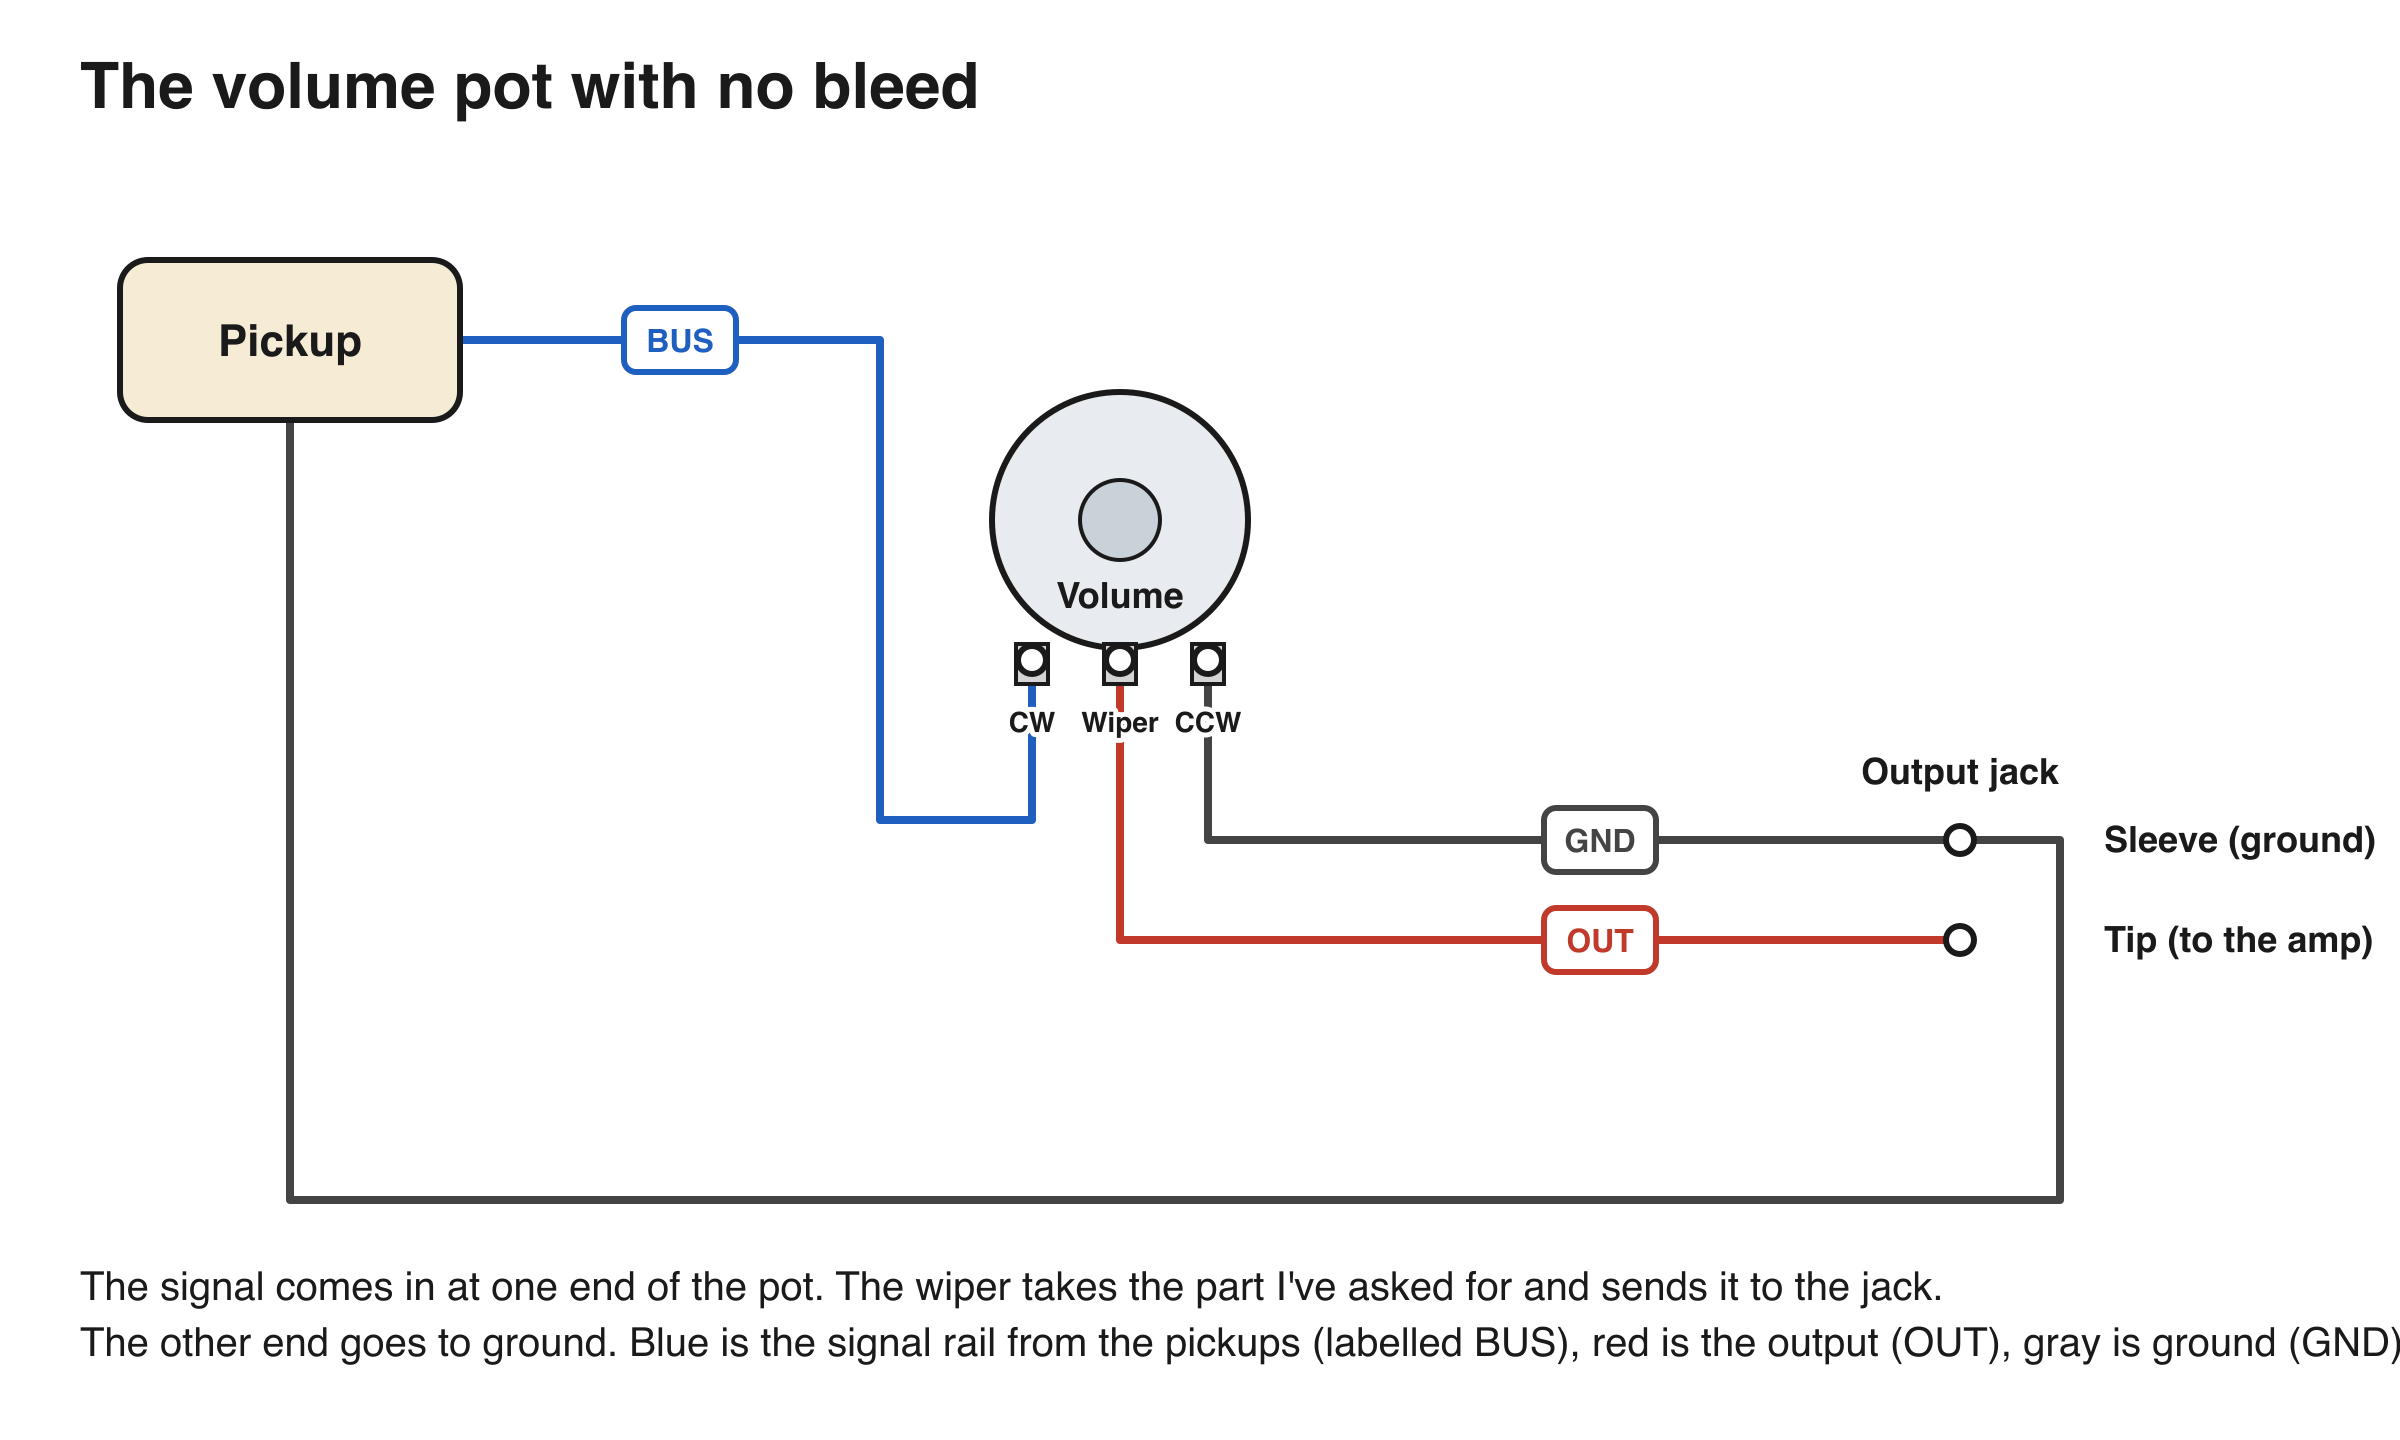
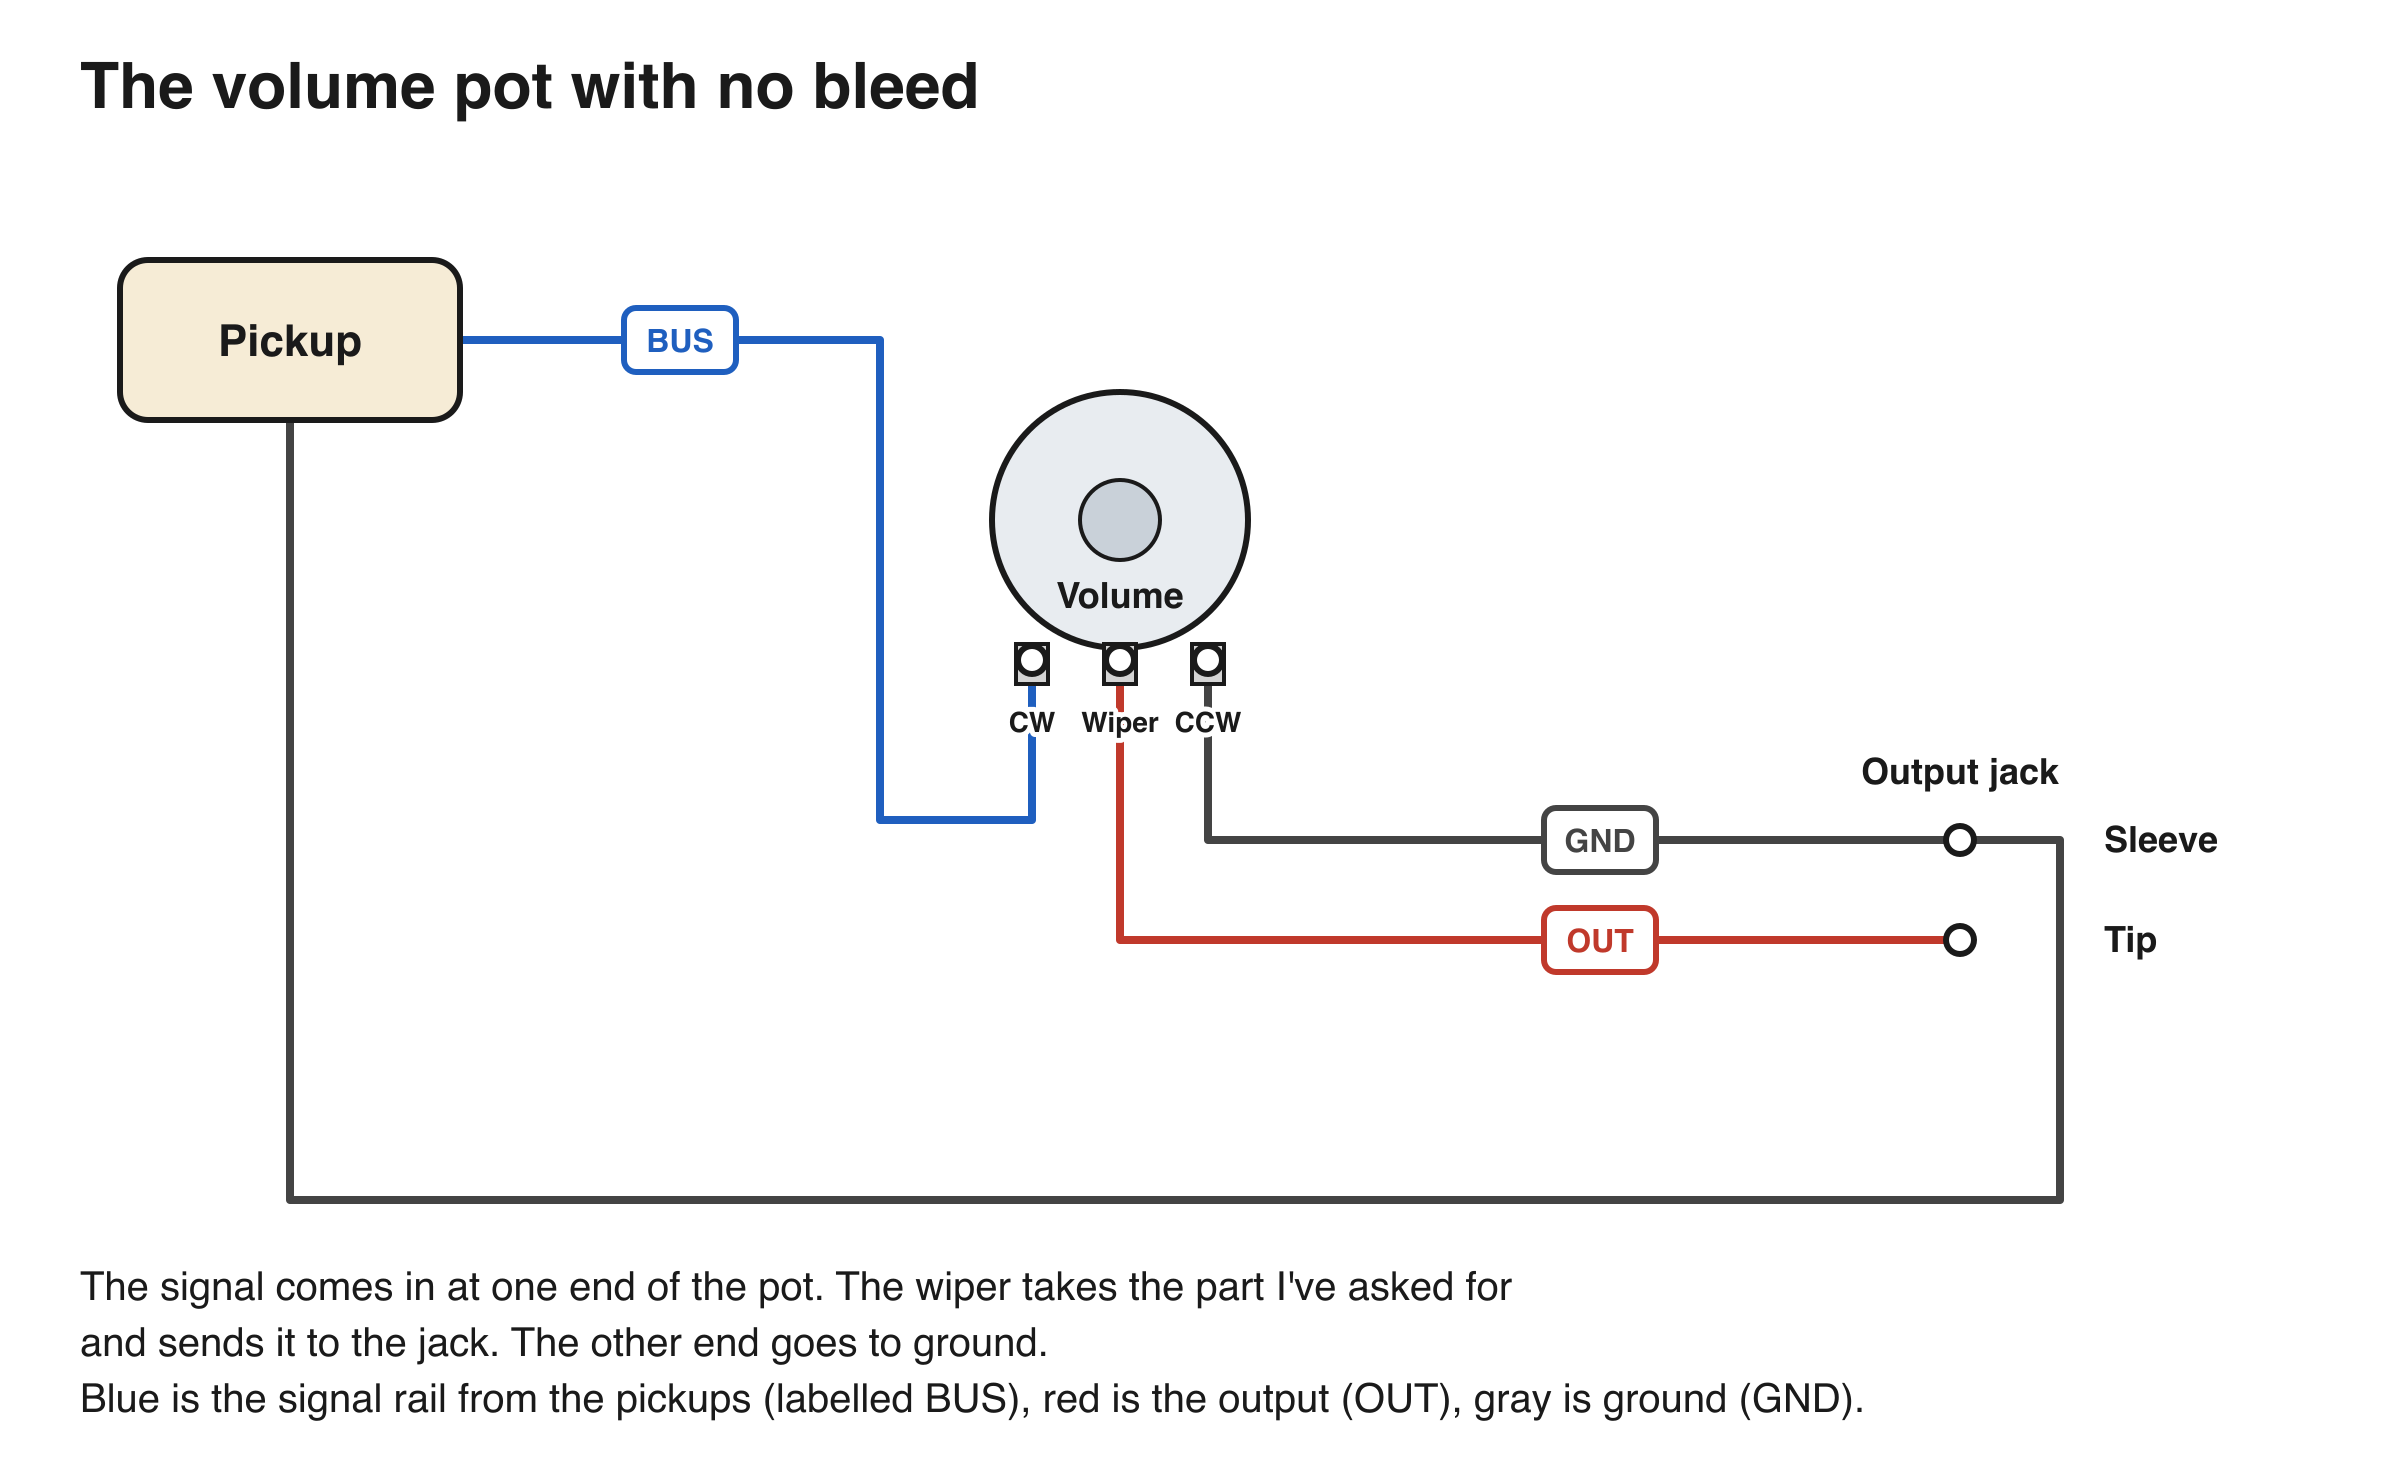
Wrap clipped diagram captions and add a text extent check

diff --git a/docs/engineering/treble-bleed-switch/generate-diagrams.test.ts b/docs/engineering/treble-bleed-switch/generate-diagrams.test.ts
@@ -2,7 +2,7 @@ import { existsSync, readFileSync } from 'node:fs';
 import { join } from 'node:path';
 import { describe, expect, it } from 'vitest';
 // @ts-expect-error plain ES module without type declarations
-import { generateAll } from './generate-diagrams.mjs';
+import { generateAll, textExtentProblems } from './generate-diagrams.mjs';
 
 const names = ['05-stock-volume', '06-capacitor-bleed', '07-bleed-variants', '09-reactive-bleed', '10-three-modes', '11-before', '12-after'];
 const conceptNames = ['01-signal-chain', '02-volume-pot', '03-pot-and-cable', '04-brightness-sketch', '08-tone-pot', '13-pot-lugs', '14-switch-contacts'];
@@ -67,5 +67,22 @@ describe('treble bleed explainer schematics', () => {
 
     it('puts the exact meter reminder on the switch contact map', () => {
         expect(readFileSync(join(outDir, '14-switch-contacts.svg'), 'utf8')).toContain('confirm with a meter');
+    });
+});
+
+describe('text extent check', () => {
+    const svg = (body: string) => `<svg xmlns="http://www.w3.org/2000/svg" viewBox="0 0 1200 300" width="1200" height="300">${body}</svg>`;
+    const line = (anchor: string, x: number, s: string) => `<text x="${x}" y="40" font-size="20" font-weight="400" text-anchor="${anchor}">${s}</text>`;
+
+    it('flags a caption that runs past the right edge and one that starts left of the canvas', () => {
+        const long = 'A caption that is much too long to fit in the width of this canvas and so it would be cut off at the edge. '.repeat(2);
+        expect(textExtentProblems('t', svg(line('start', 40, long))).join('\n')).toMatch(/right edge/);
+        expect(textExtentProblems('t', svg(line('middle', 10, 'Centered label that sticks out to the left'))).join('\n')).toMatch(/left edge/);
+    });
+
+    it('flags text that crosses the right edge of the panel frame that holds it', () => {
+        const frame = '<rect x="20" y="10" width="200" height="200" rx="14" fill="#fff" stroke="#ccc"/>';
+        expect(textExtentProblems('t', svg(frame + line('start', 30, 'This line is wider than its panel'))).join('\n')).toMatch(/panel/);
+        expect(textExtentProblems('t', svg(frame + line('start', 30, 'Fits fine'))).join('\n')).toBe('');
     });
 });
